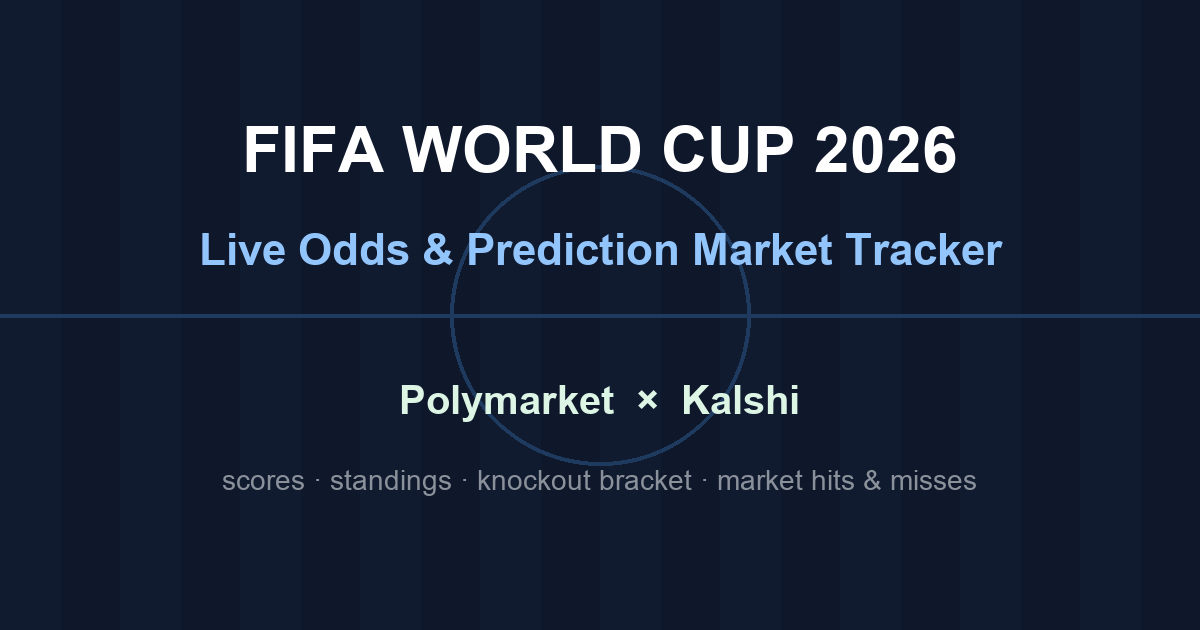
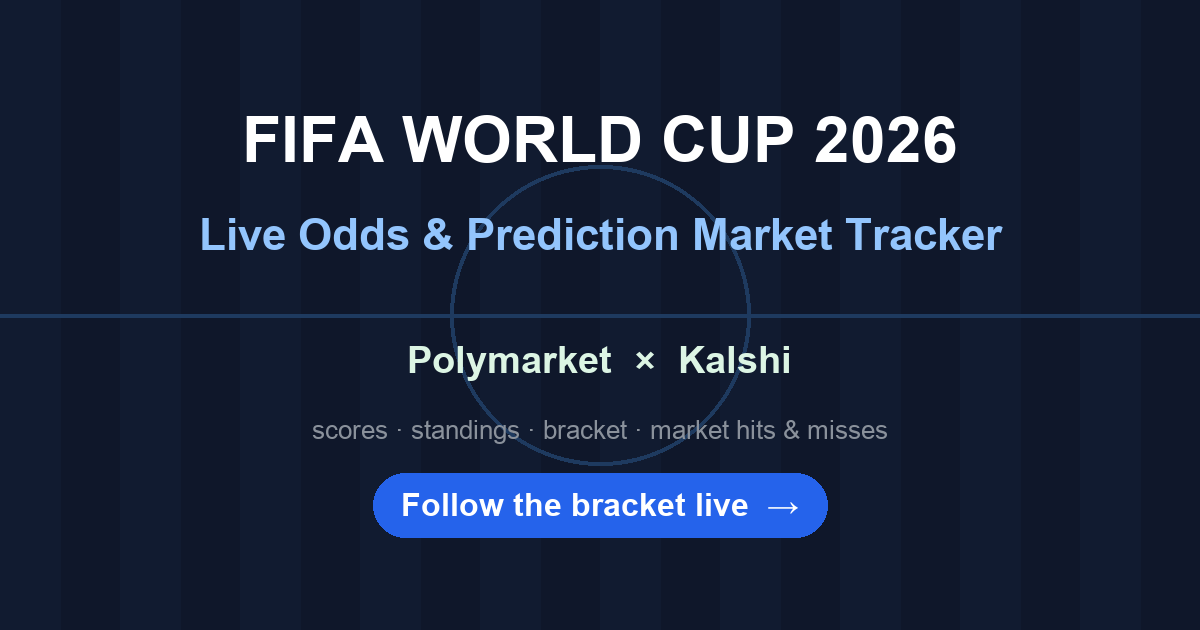
Trim SEO copy to inspector limits + CTA on the share image
Title 48 chars (<60), meta description 140 (<160), OG/Twitter descriptions
114 (<125); bracket page likewise. The share card gains a 'Follow the
bracket live' call-to-action pill, per the OpenGraph inspector warnings.

Changed region(s): [[0.185, 0.5429, 0.8325, 0.8746], [0.1542, 0.3317, 0.8325, 0.4222], [0.185, 0.181, 0.8017, 0.2714]]

diff --git a/outputs/world-cup-tracker/templates/index.html b/outputs/world-cup-tracker/templates/index.html
@@ -3,20 +3,20 @@
   <head>
     <meta charset="utf-8" />
     <meta name="viewport" content="width=device-width, initial-scale=1" />
-    <title>FIFA World Cup 2026 — Live Odds &amp; Prediction Market Tracker</title>
-    <meta name="description" content="Live FIFA World Cup 2026 scores, standings and knockout bracket compared against Polymarket and Kalshi prediction markets — see which market calls matches right, upsets, odds and volumes in real time." />
+    <title>FIFA World Cup 2026 — Live Odds &amp; Market Tracker</title>
+    <meta name="description" content="Live World Cup 2026 scores, standings and knockout bracket vs Polymarket and Kalshi prediction markets — hits, misses, upsets and live odds." />
     <link rel="canonical" href="https://wc2026-m91b.onrender.com/" />
     <meta property="og:type" content="website" />
     <meta property="og:site_name" content="World Cup Market Tracker" />
-    <meta property="og:title" content="FIFA World Cup 2026 — Live Odds &amp; Prediction Market Tracker" />
-    <meta property="og:description" content="Live scores, standings and the knockout bracket vs Polymarket &amp; Kalshi prediction markets — hits, misses, upsets and odds in real time." />
+    <meta property="og:title" content="FIFA World Cup 2026 — Live Odds &amp; Market Tracker" />
+    <meta property="og:description" content="Live World Cup 2026 scores and bracket vs Polymarket &amp; Kalshi — market hits, misses, upsets and odds in real time." />
     <meta property="og:url" content="https://wc2026-m91b.onrender.com/" />
     <meta property="og:image" content="https://wc2026-m91b.onrender.com/static/og.png" />
     <meta property="og:image:width" content="1200" />
     <meta property="og:image:height" content="630" />
     <meta name="twitter:card" content="summary_large_image" />
-    <meta name="twitter:title" content="FIFA World Cup 2026 — Live Odds &amp; Prediction Market Tracker" />
-    <meta name="twitter:description" content="Live scores and bracket vs Polymarket &amp; Kalshi prediction markets — hits, misses, upsets and odds in real time." />
+    <meta name="twitter:title" content="FIFA World Cup 2026 — Live Odds &amp; Market Tracker" />
+    <meta name="twitter:description" content="Live World Cup 2026 scores and bracket vs Polymarket &amp; Kalshi — market hits, misses, upsets and odds in real time." />
     <meta name="twitter:image" content="https://wc2026-m91b.onrender.com/static/og.png" />
     <link rel="icon" type="image/png" sizes="32x32" href="/static/favicon-32.png" />
     <link rel="apple-touch-icon" href="/static/apple-touch-icon.png" />

diff --git a/outputs/world-cup-tracker/server.py b/outputs/world-cup-tracker/server.py
@@ -2920,8 +2920,8 @@ def bracket_page():
   <head>
     <meta charset="utf-8" />
     <meta name="viewport" content="width=device-width, initial-scale=1" />
-    <title>FIFA World Cup 2026 Knockout Bracket — Market Projection</title>
-    <meta name="description" content="The FIFA World Cup 2026 knockout bracket as projected by Polymarket and Kalshi prediction markets — actual results, upsets and the projected champion, updated live." />
+    <title>World Cup 2026 Bracket — Market Projection</title>
+    <meta name="description" content="The World Cup 2026 knockout bracket as projected by Polymarket and Kalshi prediction markets — results, upsets and the projected champion." />
     <link rel="canonical" href="{SITE_URL}/bracket" />
     <link rel="icon" type="image/png" sizes="32x32" href="/static/favicon-32.png" />
     <script defer src="https://cloud.umami.is/script.js" data-website-id="868c8fa8-c8cf-4843-84b3-8231cd582298" data-domains="wc2026-m91b.onrender.com"></script>